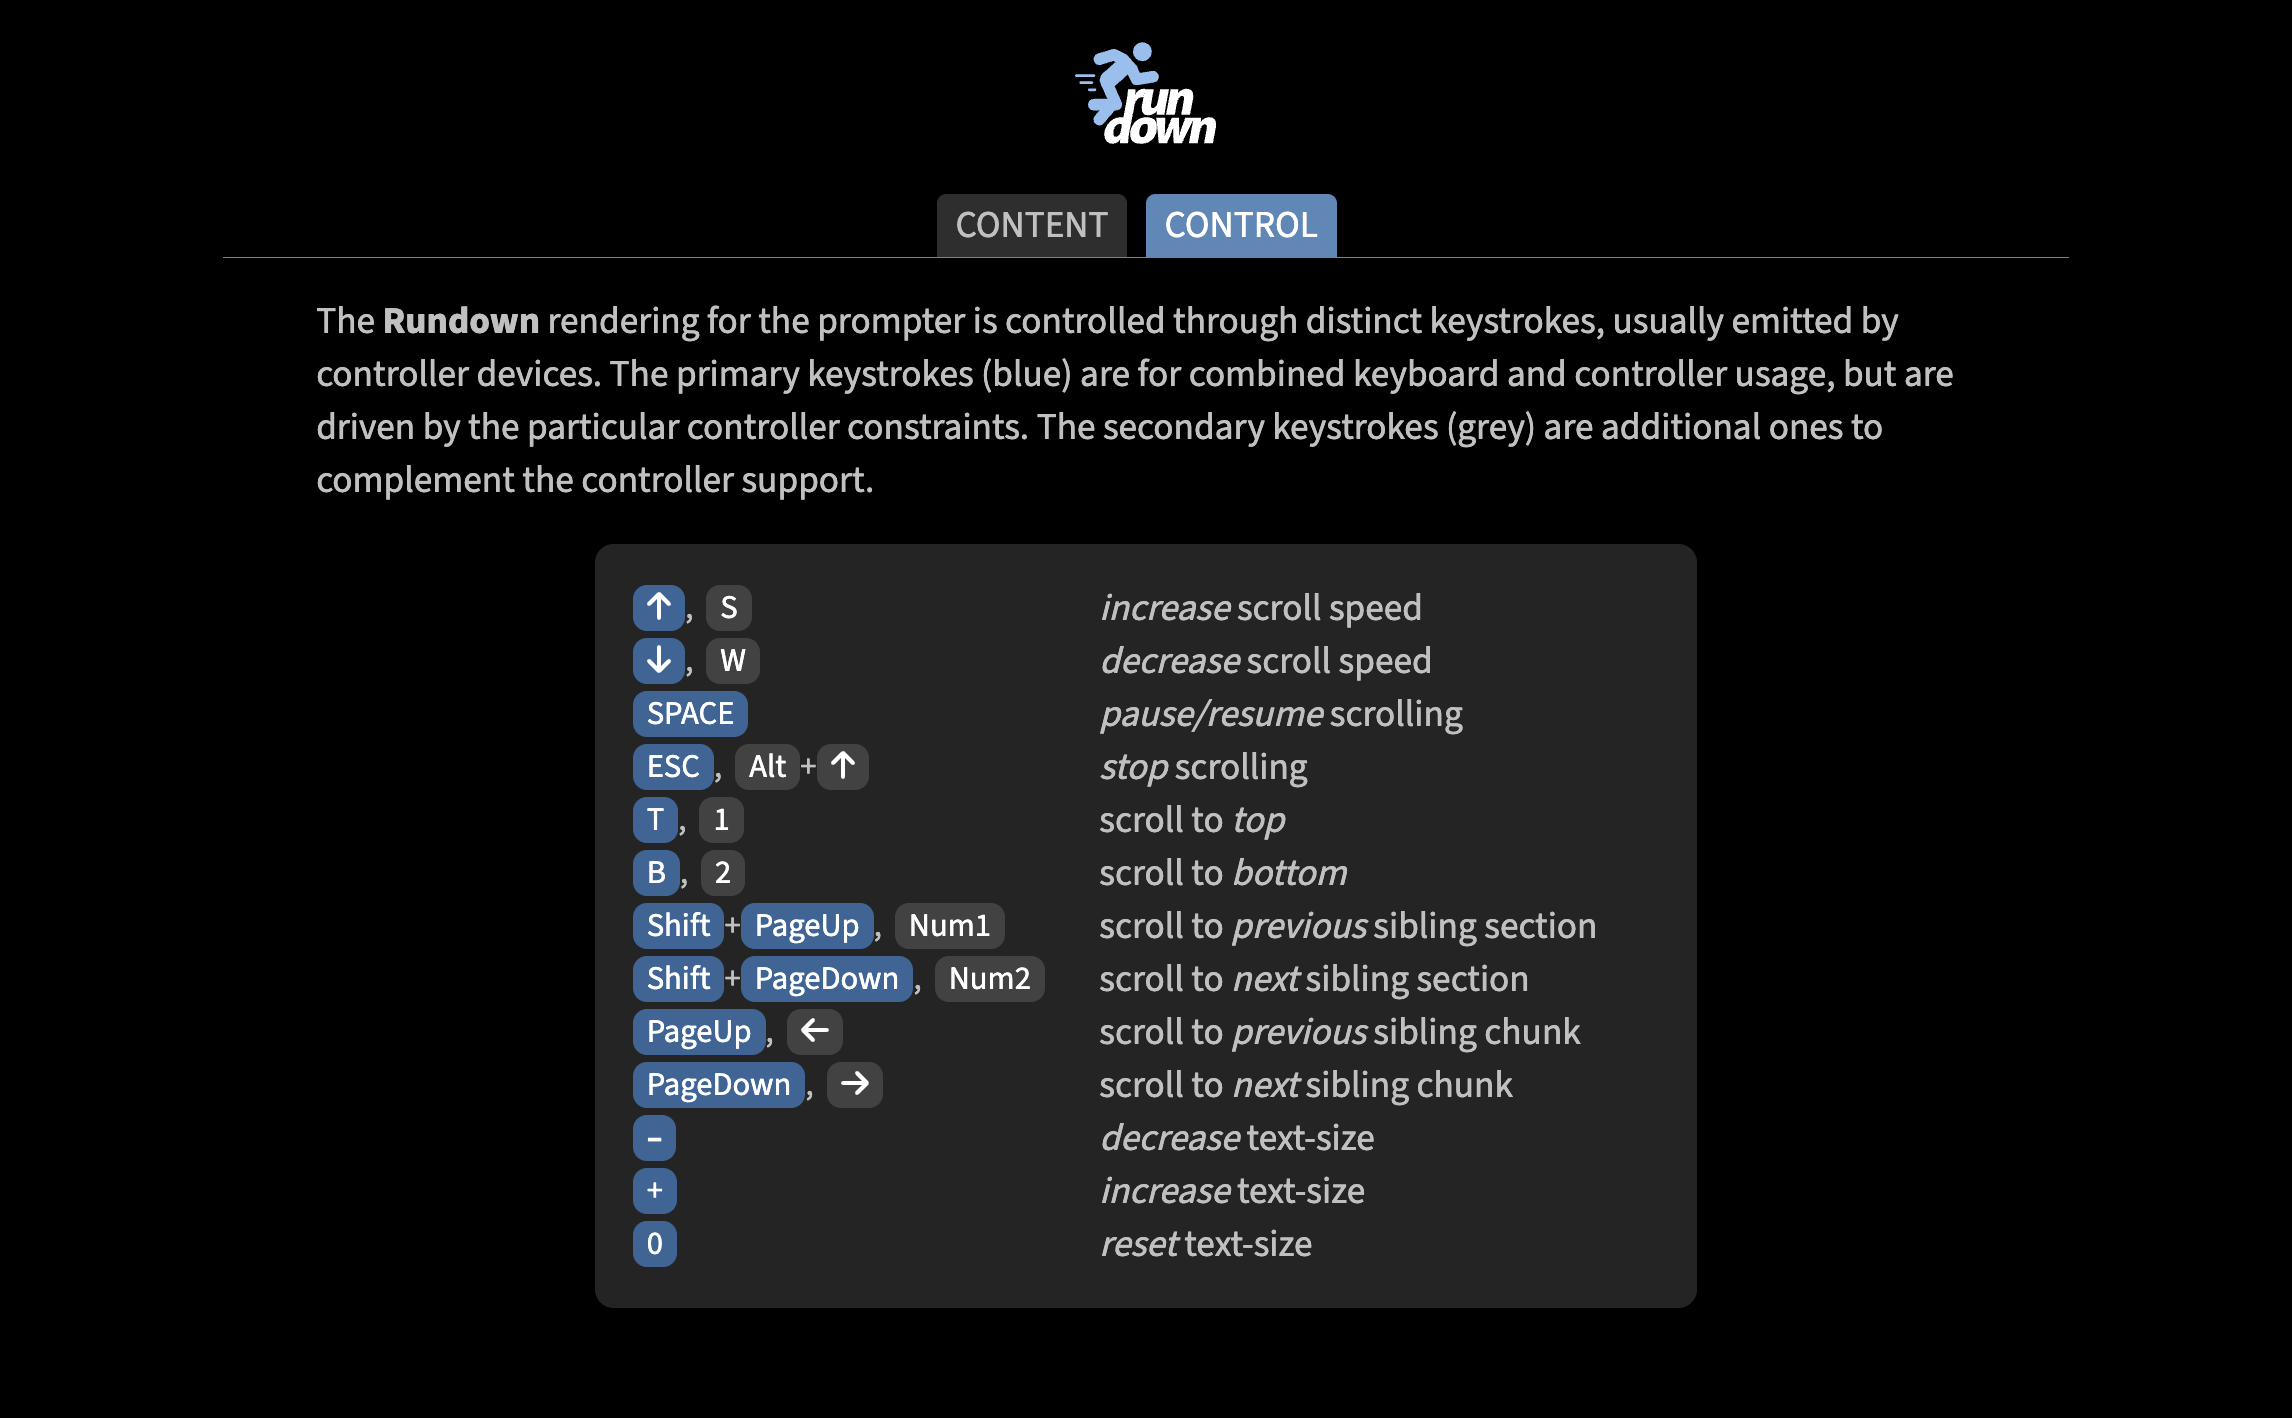
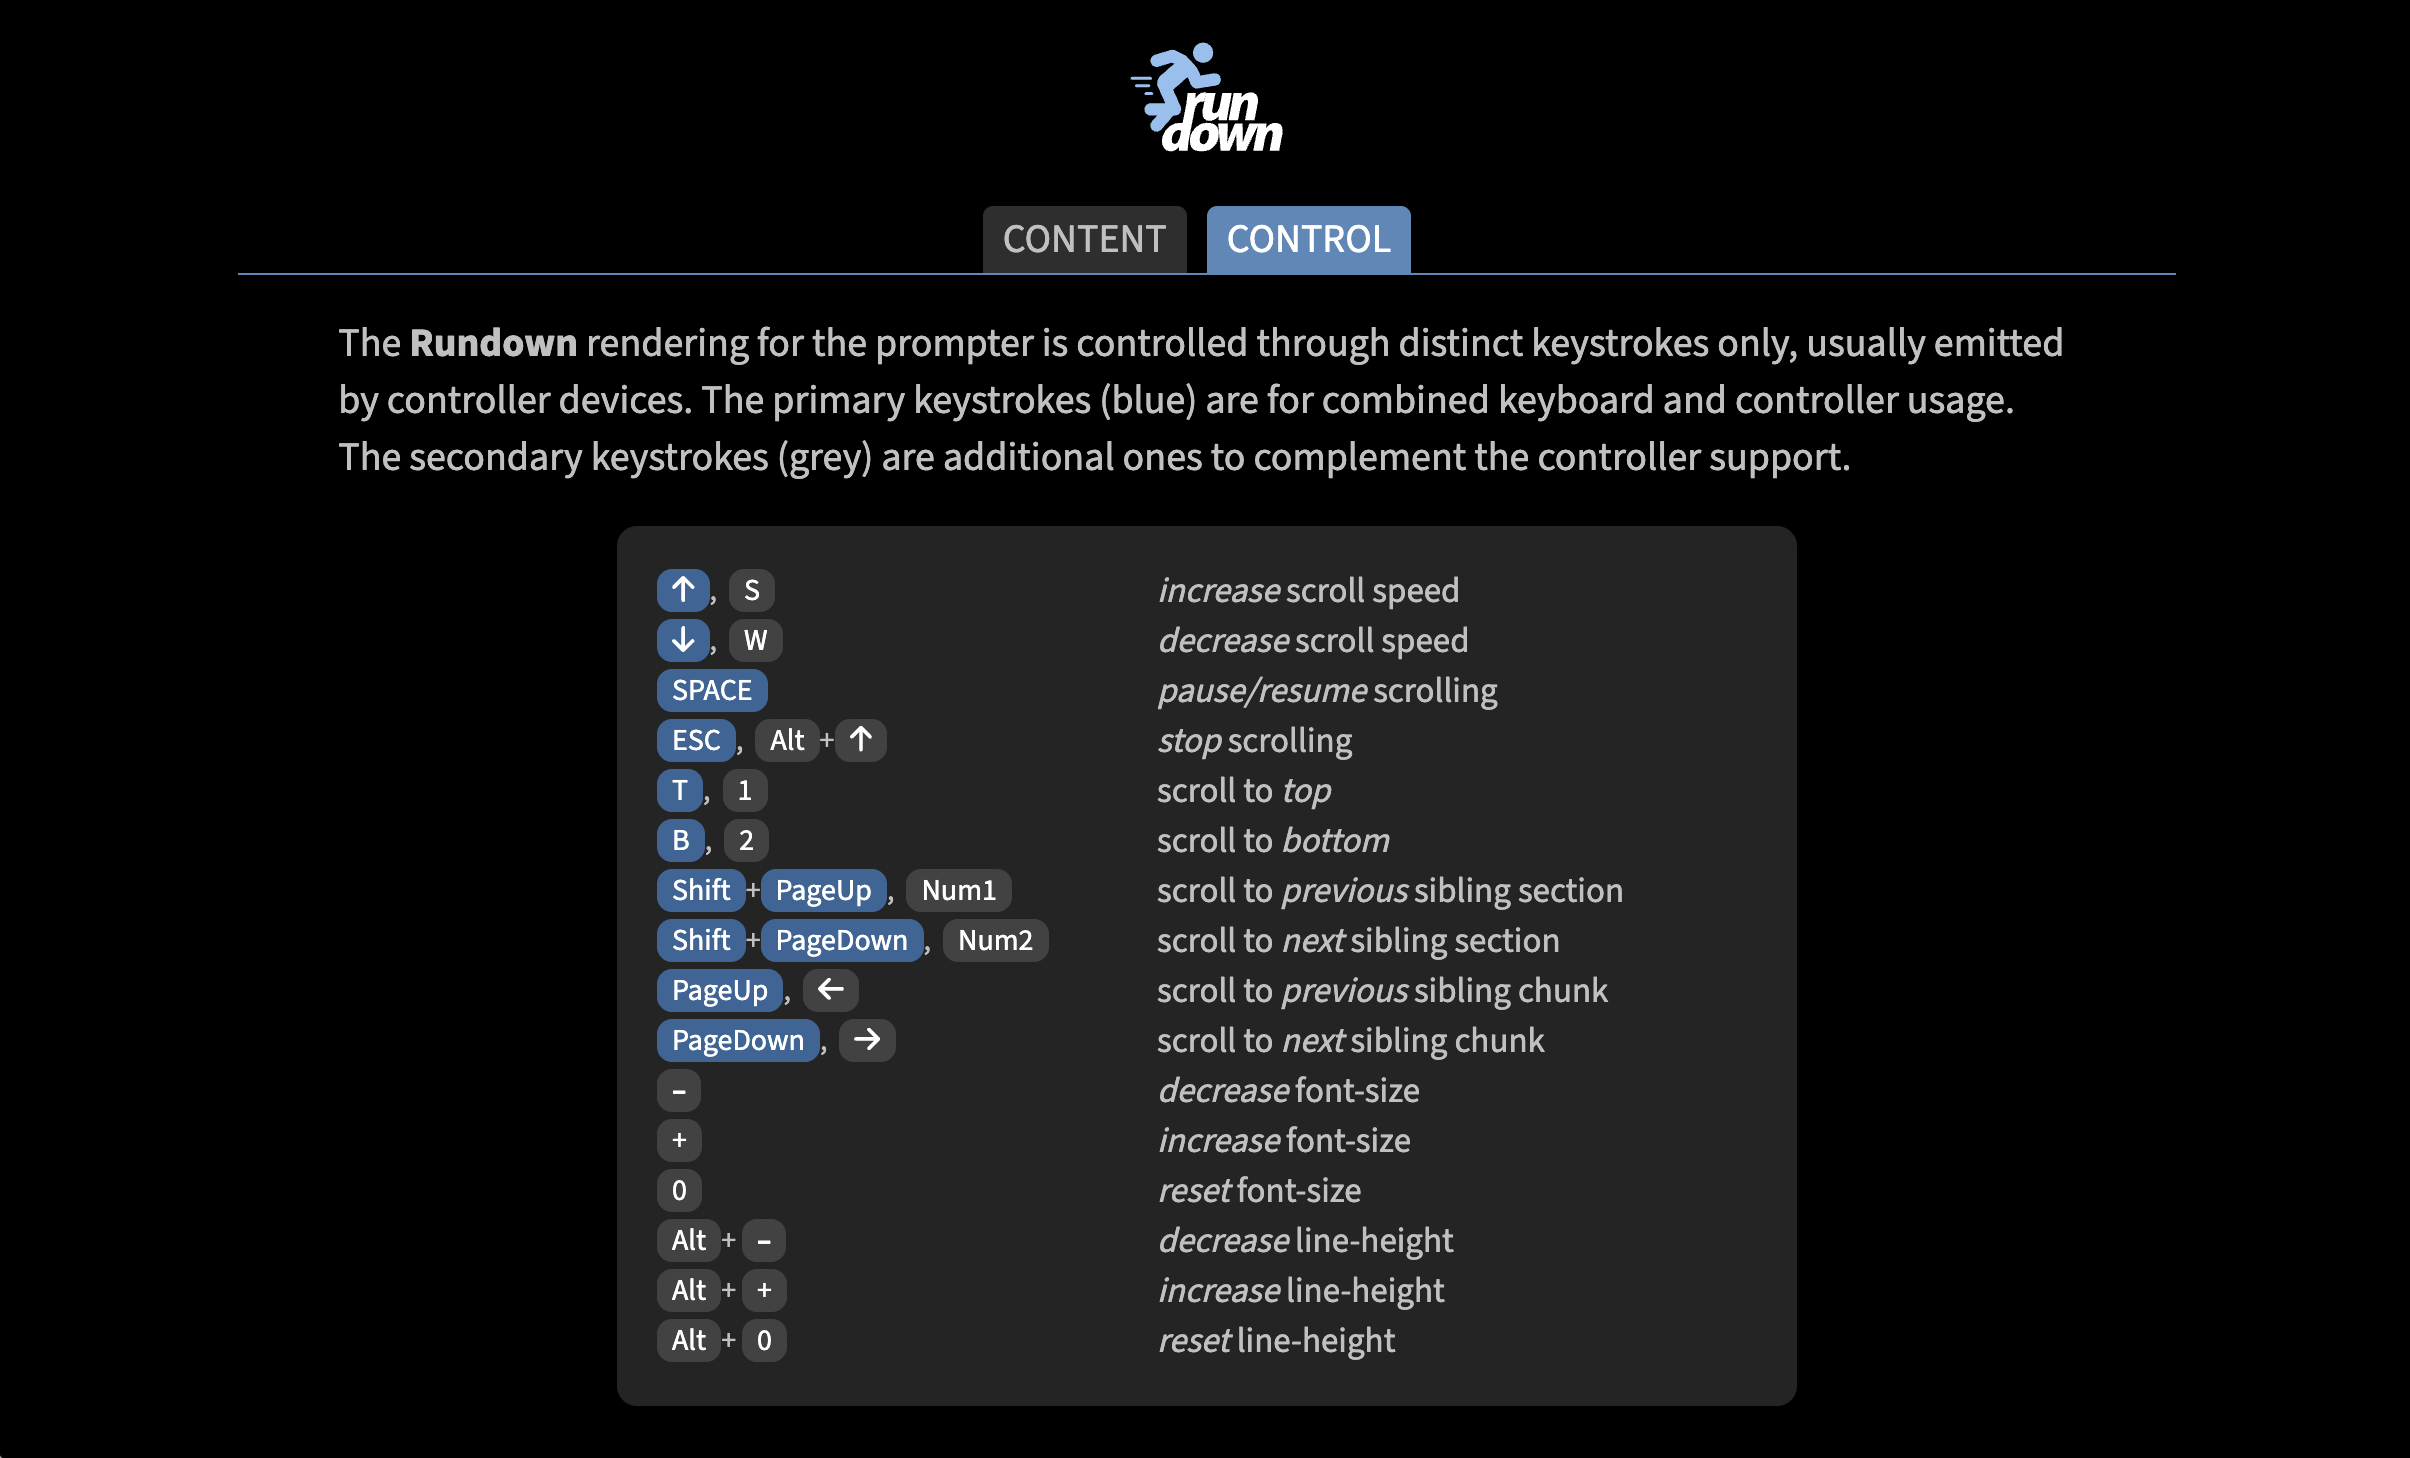
provide more screenshots

Changed region(s): [[0.1239, 0.2172, 0.8674, 0.9619], [0.4027, 0.031, 0.5886, 0.1862]]

diff --git a/README.md b/README.md
@@ -31,10 +31,13 @@ the rendered teleprompter view on the right:
 
 ![screenshot](rundown-doc/rundown-screenshot-1.png)
 
-The following is a view of the web user interface, showing the supported keystrokes 
-for controlling the scrolling of the rendered teleprompter view:
+The following are two screenshots of the interactive web user interface,
+showing the buttons to download and upload the rundown script, and the
+supported keystrokes for controlling the scrolling of the rendered
+teleprompter view:
 
 ![screenshot](rundown-doc/rundown-screenshot-2.png)
+![screenshot](rundown-doc/rundown-screenshot-3.png)
 
 Installation
 ------------
